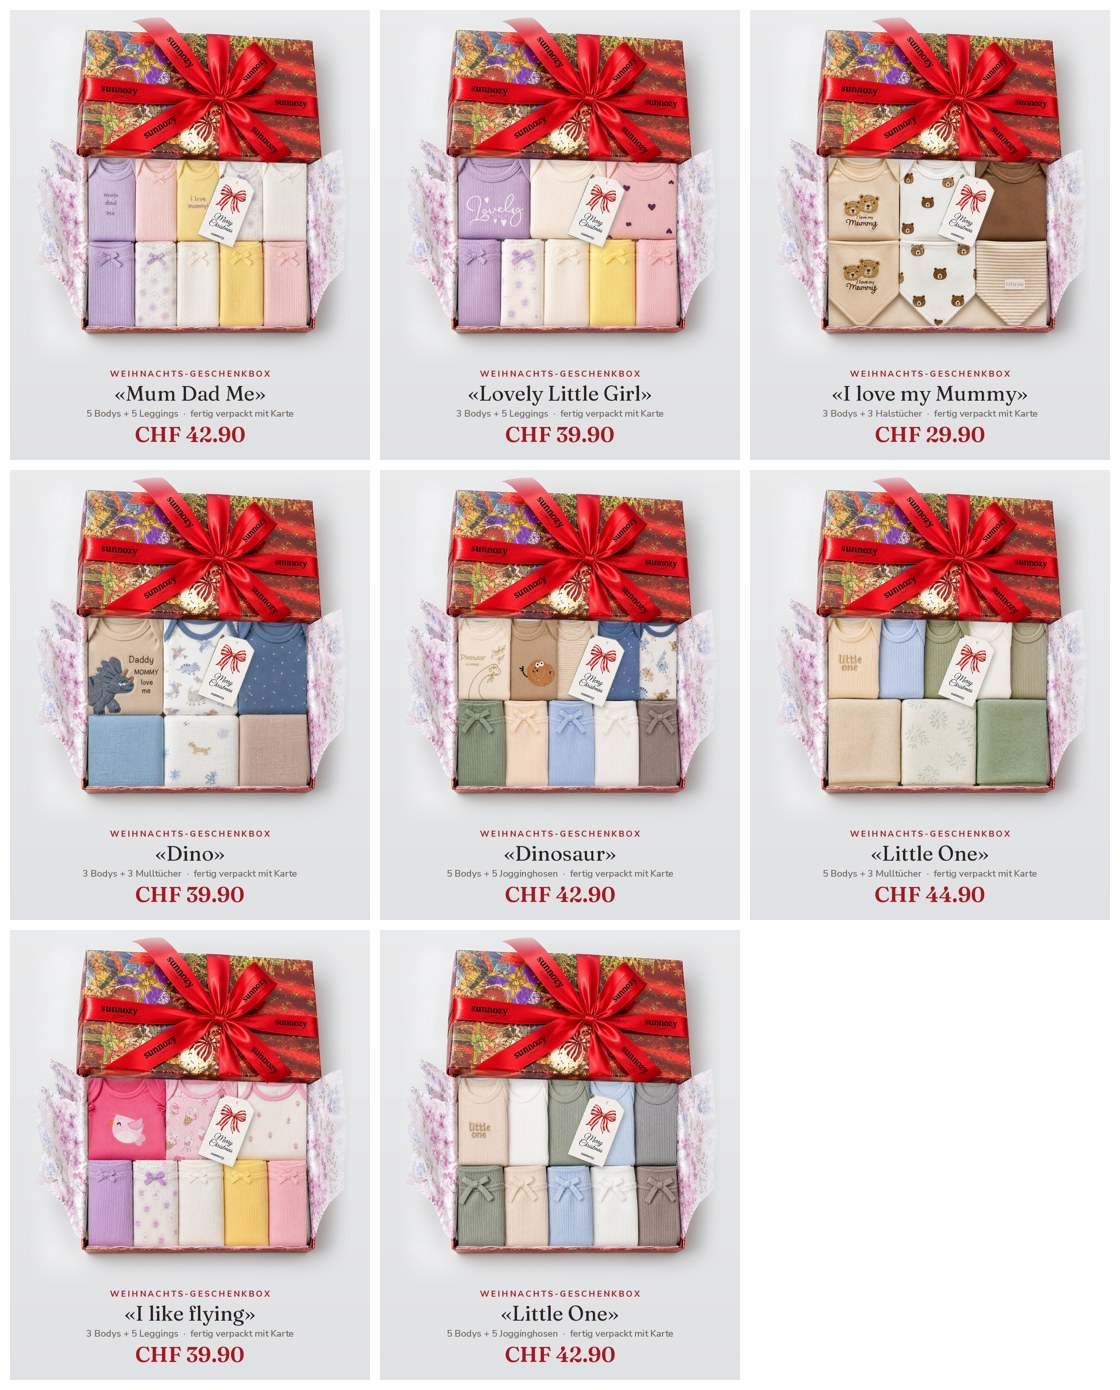
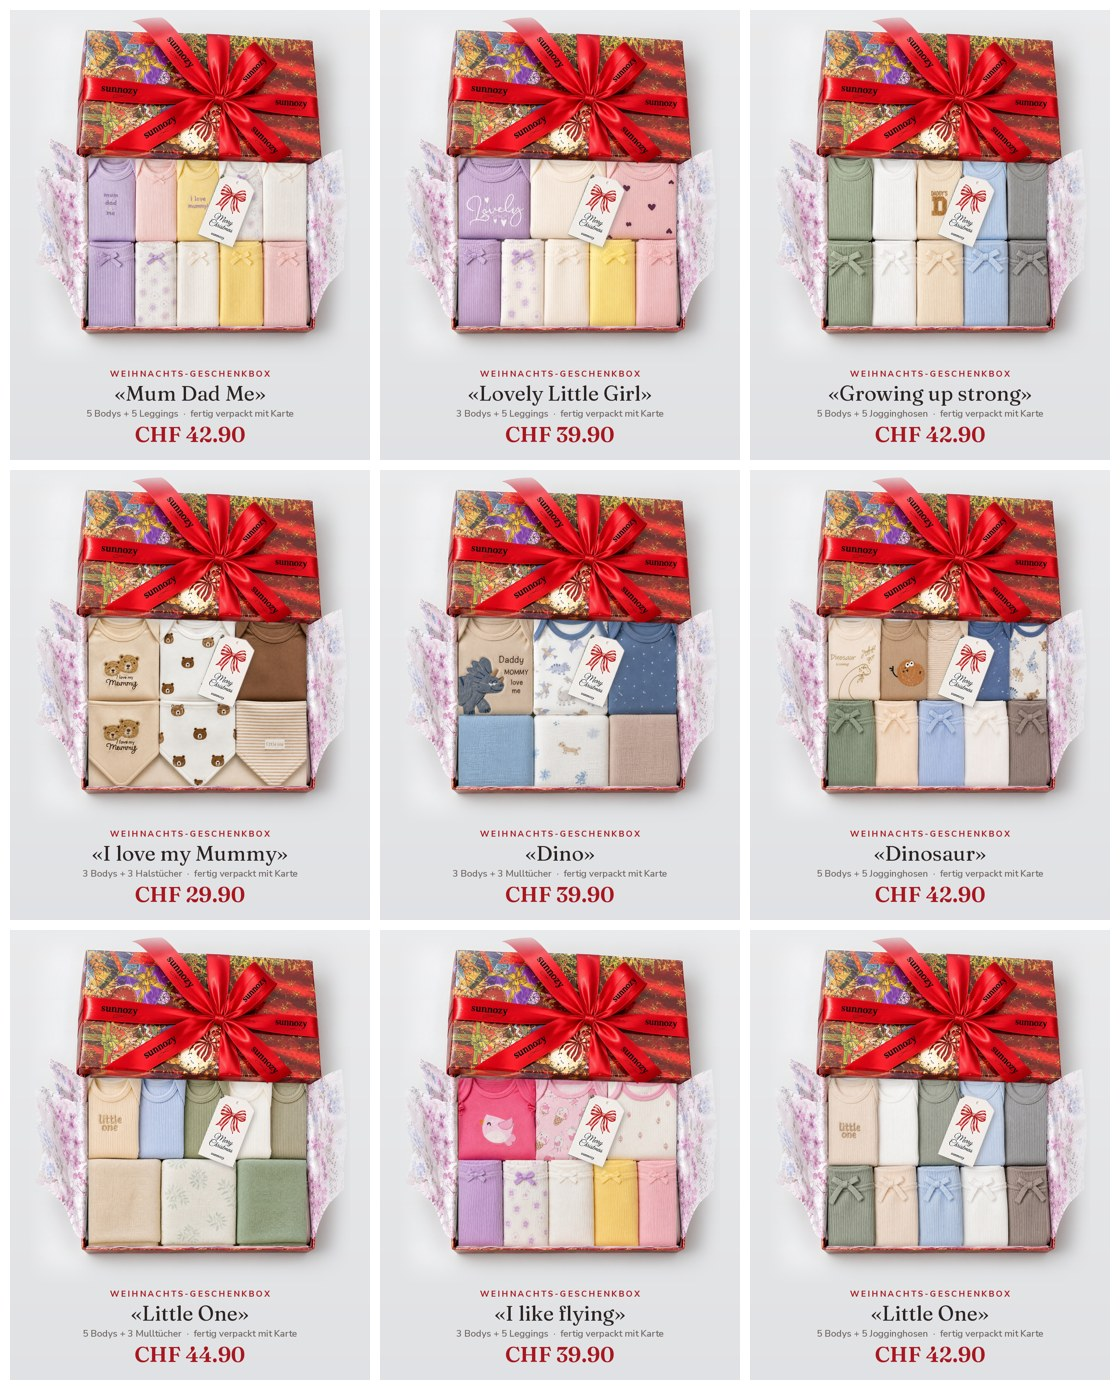
Rote Box: Growing up strong, alle 9 Hauptbilder in Shopify, Anzeigen mit Preis, README
Claude-Session: https://claude.ai/code/session_01Mcsz2CcqhytaxPLftYR6o2

diff --git a/sunnozy-content/posts/kampagne-weihnachtsbox/rote-box/README.md b/sunnozy-content/posts/kampagne-weihnachtsbox/rote-box/README.md
@@ -1,0 +1,44 @@
+# Weihnachts-Geschenkboxen in der roten sunnozy-Box (01.11.2026)
+
+Nach den Vorlagen der Nutzerin (`vorlage/vorlage_offen.jpg`, `vorlage/vorlage_zu.jpg`): offene rote Weihnachtsbox von oben,
+Deckel mit «sunnozy»-Satinband, Blumen-Seidenpapier, «Merry Christmas»-Karte. Deckel, Band, Papier und Karte kommen
+unverändert aus der Vorlage (Schrift bleibt sauber). Nur der **Inhalt im Karton ist mit KI erstellt** (Canva, nach den
+Inhalten der Boxen) und eingesetzt.
+
+| Ordner | Was |
+|---|---|
+| `shopify/geschenkbox-<box>.jpg` | Hauptbilder 2048 × 2048, **in Shopify hochgeladen** (Position 1) |
+| `shopify/geschenkbox-zu-mit-sunnozy-band.jpg` | geschlossene Box, bei allen 9 Boxen als Bild 2 hochgeladen |
+| `ads/feed_<box>_4x5.jpg` | Anzeige Feed 1080 × 1350 mit Name, Inhalt und Preis |
+| `ads/quadrat_<box>_1x1.jpg` | Anzeige 1080 × 1080 |
+| `ads/story_<box>_9x16.jpg` | Story/Reel 1080 × 1920, oben und unten frei für Instagram |
+| `ads/uebersicht_4x5.jpg` | alle Feed-Anzeigen auf einen Blick |
+| `4x5/`, `komposit/` | Zwischenstufen (4:5 ohne Text, Grundbild für die Anzeigen) |
+| `inhalt/<box>.jpg` | KI-Inhaltsbilder (4:3) |
+| `vorlage/` | Vorlagen der Nutzerin, `vorlage_offen_2x.jpg` mit Real-ESRGAN scharf hochgerechnet |
+
+## Shopify (Kollektion «Geschenkboxen», 9 Produkte)
+
+Pro Produkt: 1. neues Hauptbild rote Box, 2. geschlossene Box, danach die bisherigen Bilder der Sets.
+Entfernt wurden die alten Bilder mit der rosa Box (Hauptbild und, wo vorhanden, das Foto «in der rosa Box»).
+
+| Box | Inhalt | Preis |
+|---|---|---|
+| «Mum Dad Me» | 5 Bodys + 5 Leggings | CHF 42.90 |
+| «Lovely Little Girl» | 3 Bodys + 5 Leggings | CHF 39.90 |
+| «Growing up strong» | 5 Bodys + 5 Jogginghosen | CHF 42.90 |
+| «I love my Mummy» | 3 Bodys + 3 Halstücher | CHF 29.90 |
+| «Dino» | 3 Bodys + 3 Mulltücher | CHF 39.90 |
+| «Dinosaur» | 5 Bodys + 5 Jogginghosen | CHF 42.90 |
+| «Little One» | 5 Bodys + 3 Mulltücher | CHF 44.90 |
+| «I like flying» | 3 Bodys + 5 Leggings | CHF 39.90 |
+| «Little One» Jogginghosen | 5 Bodys + 5 Jogginghosen | CHF 42.90 |
+
+## Neu erzeugen
+
+```bash
+python3 tools/make_rote_box.py            # Hauptbilder aus inhalt/*.jpg
+python3 tools/make_rote_box_ads.py        # Anzeigen (Preise in BOXEN)
+```
+
+**Vor dem Schalten der Anzeigen:** Der Inhalt ist KI-generiert. Drucke und Farben jeder Box mit der echten Ware vergleichen.
